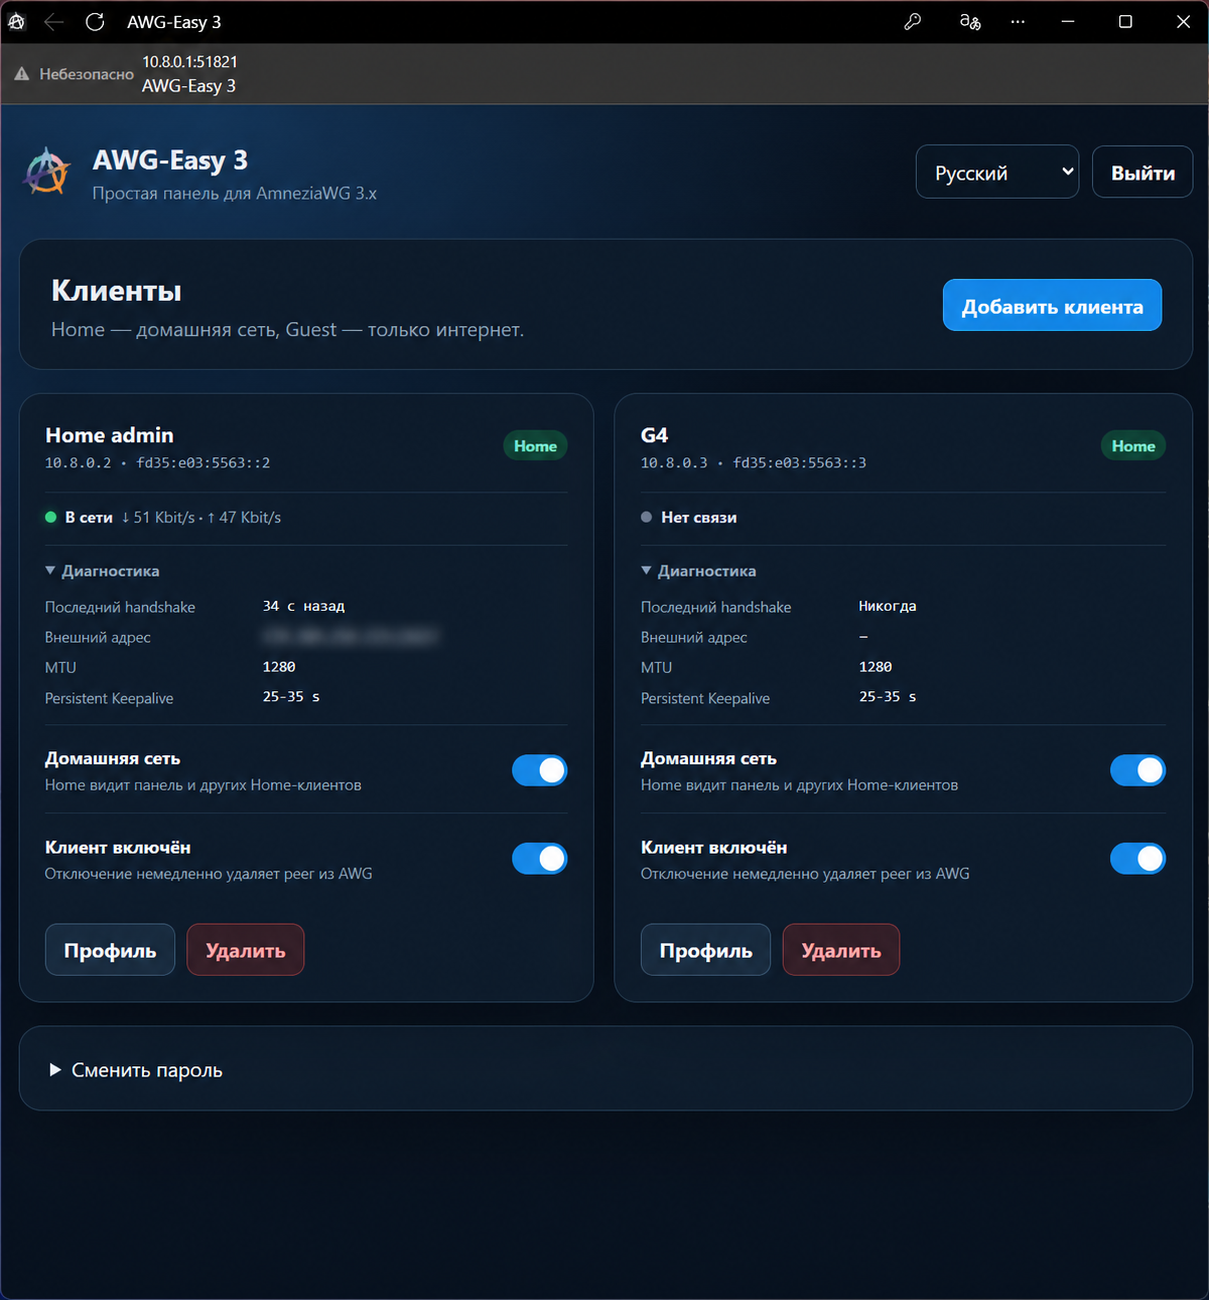
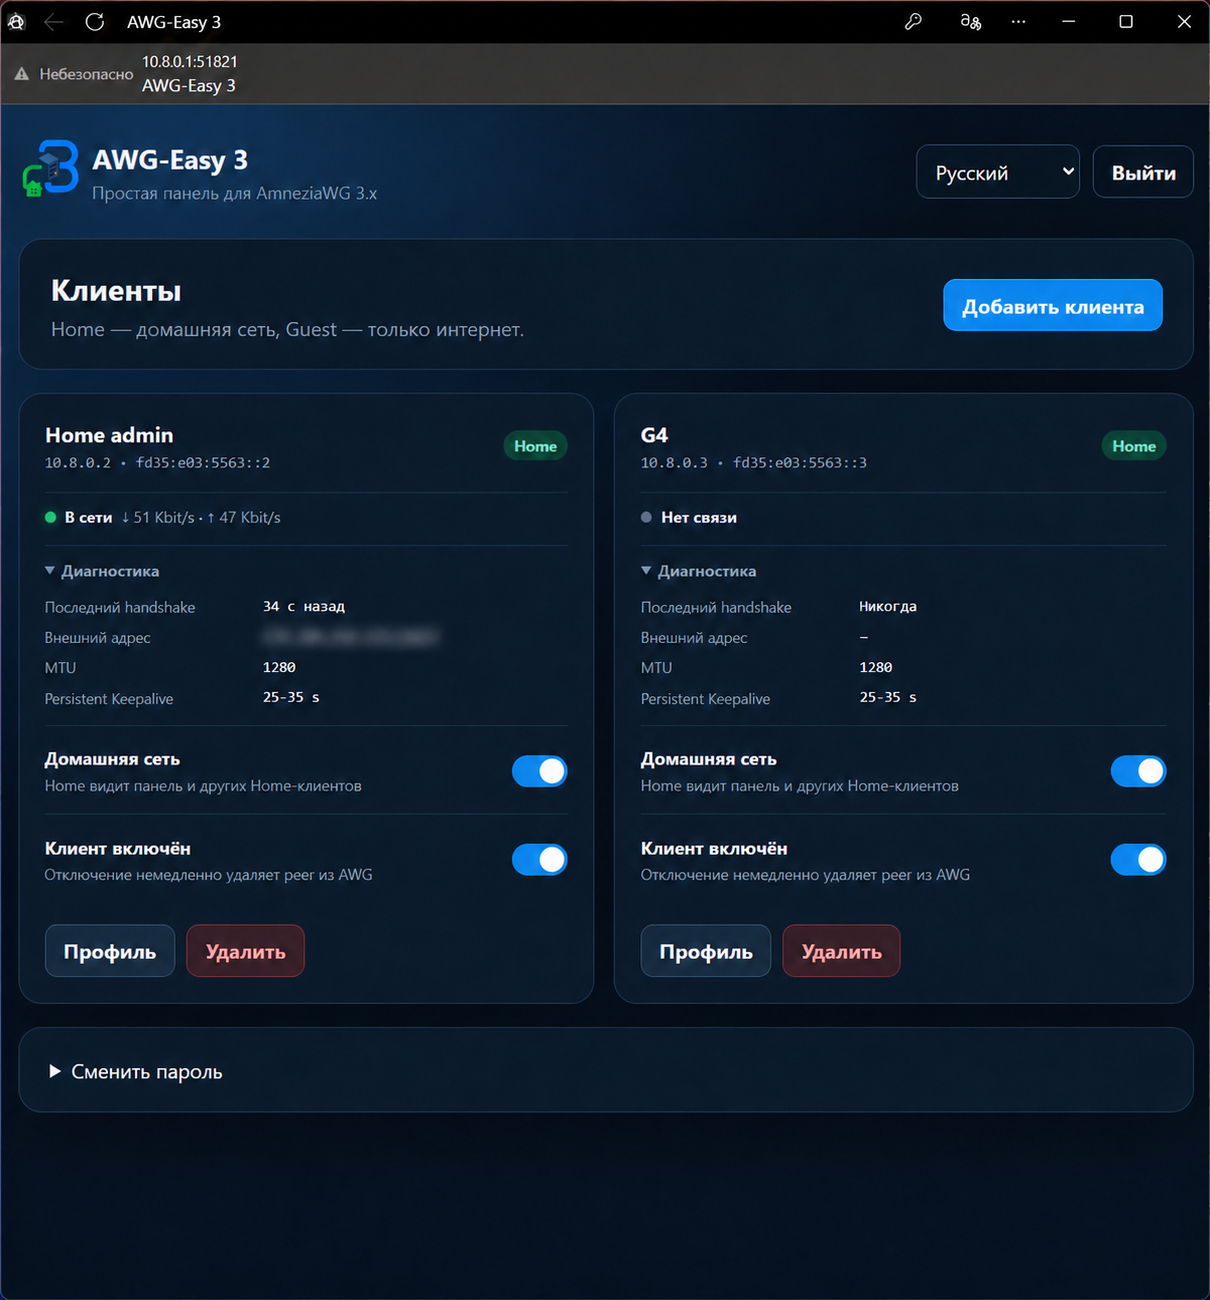
release: add original AWG-Easy 3 branding

diff --git a/src/www/index.html b/src/www/index.html
@@ -2,11 +2,11 @@
 <html lang="en" dir="ltr">
 <head>
   <meta charset="utf-8"><meta name="viewport" content="width=device-width, initial-scale=1"><meta name="color-scheme" content="dark">
-  <title>AWG-Easy 3</title><link rel="icon" href="/img/favicon.ico"><link rel="stylesheet" href="/css/app.css?v=20260824-3"><link rel="stylesheet" href="/css/i18n.css?v=20260824-3"><link rel="stylesheet" href="/css/language.css?v=20260824-3"><link rel="stylesheet" href="/css/diagnostics.css?v=20260824-3"><link rel="stylesheet" href="/css/manual-copy.css?v=20260825-1">
+  <title>AWG-Easy 3</title><link rel="icon" href="/img/favicon.ico?v=20260825-2"><link rel="apple-touch-icon" href="/img/apple-touch-icon.png?v=20260825-2"><link rel="stylesheet" href="/css/app.css?v=20260824-3"><link rel="stylesheet" href="/css/i18n.css?v=20260824-3"><link rel="stylesheet" href="/css/language.css?v=20260824-3"><link rel="stylesheet" href="/css/diagnostics.css?v=20260824-3"><link rel="stylesheet" href="/css/manual-copy.css?v=20260825-1">
 </head>
 <body>
 <main class="shell">
-  <header class="topbar"><div class="brand"><img src="/img/logo.svg" alt="" width="44" height="44"><div><h1>AWG-Easy 3</h1><p data-i18n="tagline">Simple panel for AmneziaWG 3.x</p></div></div><div class="topbar-actions"><select id="language" class="language-select" aria-label="Language" data-i18n-label="language"><option value="en">English</option><option value="ru">Русский</option><option value="fa">فارسی</option><option value="es">Español</option><option value="zh-cn">简体中文</option></select><button id="logout" class="button ghost hidden" type="button" data-i18n="logout">Sign out</button></div></header>
+  <header class="topbar"><div class="brand"><img src="/img/logo.png?v=20260825-2" alt="" width="44" height="44"><div><h1>AWG-Easy 3</h1><p data-i18n="tagline">Simple panel for AmneziaWG 3.x</p></div></div><div class="topbar-actions"><select id="language" class="language-select" aria-label="Language" data-i18n-label="language"><option value="en">English</option><option value="ru">Русский</option><option value="fa">فارسی</option><option value="es">Español</option><option value="zh-cn">简体中文</option></select><button id="logout" class="button ghost hidden" type="button" data-i18n="logout">Sign out</button></div></header>
   <section id="login-view" class="card login-card"><h2 data-i18n="loginTitle">Panel sign in</h2><p data-i18n="loginHint">The panel is available only to Home VPN clients.</p><form id="login-form"><label><span data-i18n="password">Password</span><input id="password" type="password" required autocomplete="current-password"></label><button class="button primary" type="submit" data-i18n="login">Sign in</button></form></section>
   <section id="app-view" class="hidden">
     <div class="toolbar card"><div><h2 data-i18n="clients">Clients</h2><p data-i18n="clientsHint">Home — home network, Guest — internet only.</p></div><button id="show-create" class="button primary" type="button" data-i18n="addClient">Add client</button></div>

diff --git a/CHANGELOG.md b/CHANGELOG.md
@@ -1,5 +1,11 @@
 # Changelog
 
+## v0.1.1 — 2026-08-25
+
+- Replaced inherited Amnezia artwork with an original AWG-Easy 3 emblem.
+- Updated the panel header, favicon, Apple touch icon, web manifest and project screenshot.
+- Renamed the installed web application in the manifest from AmneziaWG to AWG-Easy 3.
+
 ## v0.1.0 — 2026-08-25
 
 Initial public release of AWG-Easy 3:
